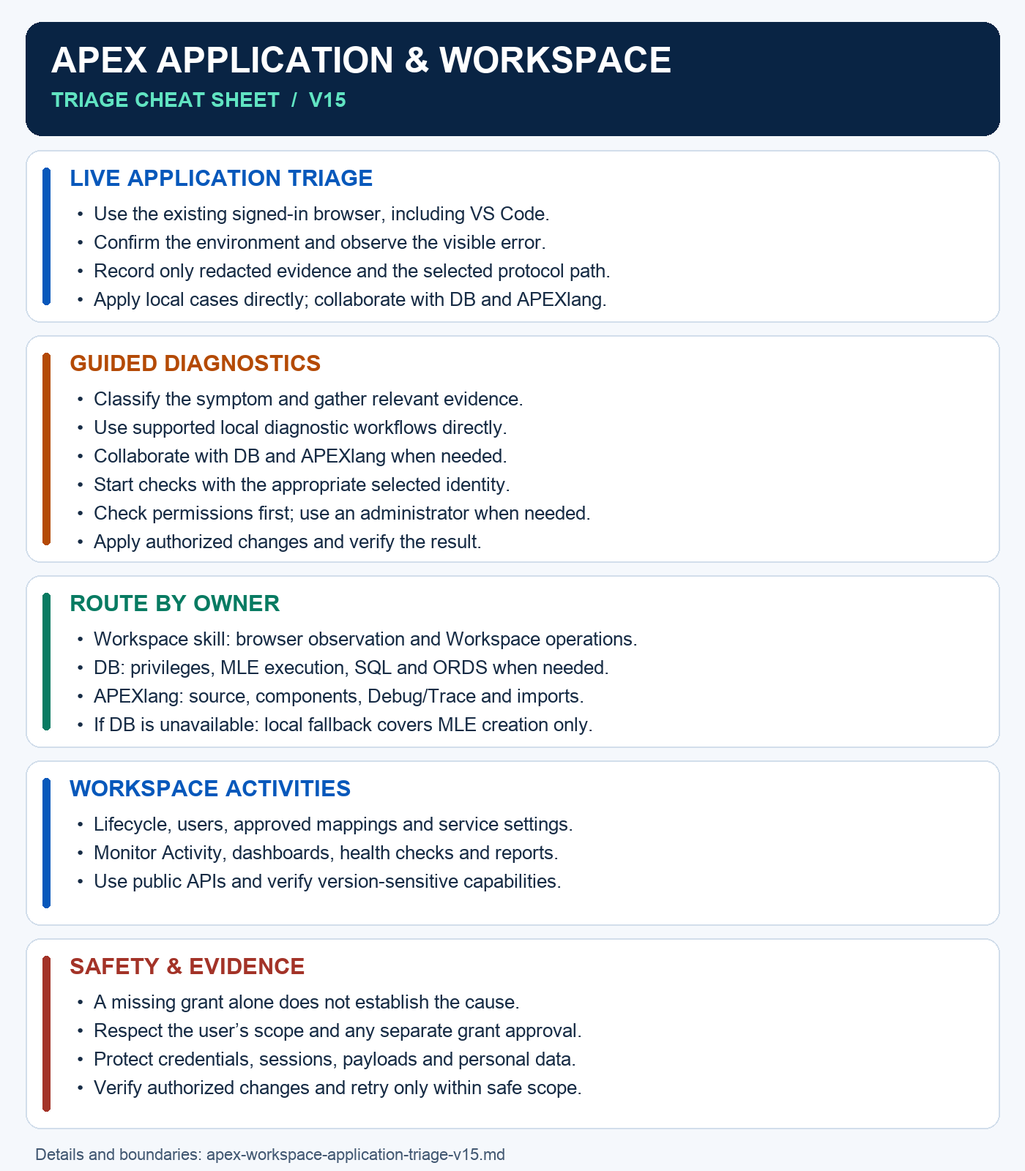
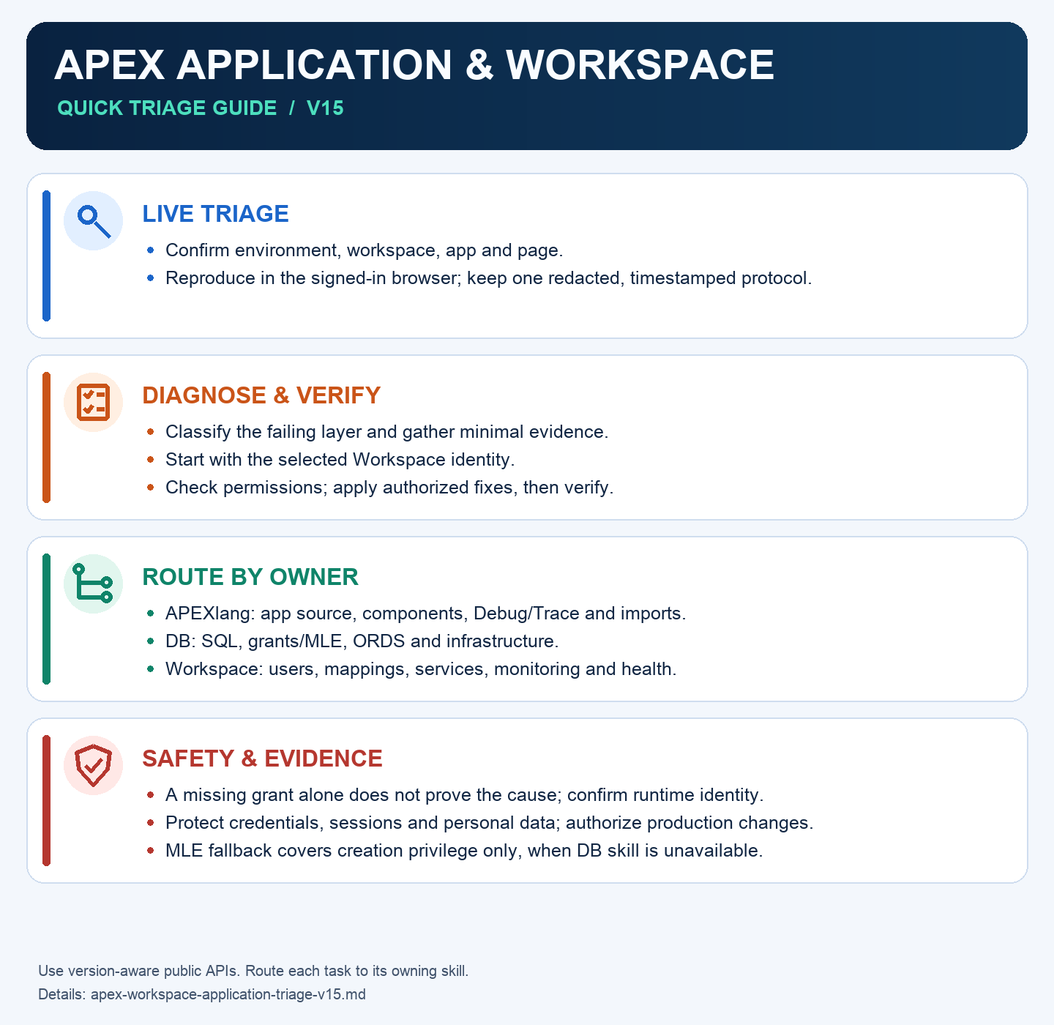
support hand offs, and clean up

Changed region(s): [[0.0, 0.0, 0.9829, 1.0], [0.9521, 0.6757, 0.9829, 0.7064]]

diff --git a/README.md b/README.md
@@ -10,12 +10,20 @@ The original APEXlang skill is the designated skill for APEX application source,
 
 **Recommendation:** Prefer the APEXlang and DB skills for their respective application and database workflows. If either skill is unavailable, continue with the capabilities included here: live browser triage and, for MLE creation `ORA-01031`, the narrow SQLcl MCP fallback. State any remaining work that those capabilities cannot cover.
 
+The APEXlang skill focuses on application development and also analyzes runtime
+errors and verifies UI behavior. The Workspace Debugging skill starts with a
+reported issue in a running app, reproduces it in the existing browser session,
+and collects redacted evidence. It involves the APEXlang skill for component or
+debug-log analysis and the DB skill for database analysis when needed. Both
+skills support browser-based runtime checks. See the [case comparison](#implemented-diagnostic-cases-and-skill-boundaries)
+for their boundaries.
+
 ## What It Provides
 
 <table>
   <tr>
     <td width="42%" valign="top">
-      <a href="docs/apex-workspace-application-triage-v15.png"><img src="docs/apex-workspace-application-triage-v15.png" alt="APEX Application &amp; Workspace Triage Cheat Sheet V15" width="420"></a>
+      <a href="docs/apex-workspace-application-triage-v16.png"><img src="docs/apex-workspace-application-triage-v16.png" alt="APEX Application &amp; Workspace Triage Cheat Sheet V16" width="420"></a>
     </td>
     <td width="58%" valign="top">
       <ul>
@@ -26,13 +34,14 @@ The original APEXlang skill is the designated skill for APEX application source,
         <li>Workspace administration UI checks and Workspace-scoped AI token-limit checks for supported APEX environments.</li>
         <li>Local protocol-file guidance for Workspace changes, administration checks, customer evidence, and live browser triage.</li>
         <li>Version-aware checks for supported APEX releases and runtime discovery of version-sensitive APIs, views, columns, and package signatures.</li>
+        <li>Reviewable, redacted support-case drafts from existing investigation evidence.</li>
       </ul>
       <p>The included workspace planner is an optional helper. It does not execute SQLcl, ORDS, generic database administration, or customer-specific workflows.</p>
     </td>
   </tr>
 </table>
 
-[Read the accessible text version](docs/apex-workspace-application-triage-v15.md), including the [MLE grant debugging case](apex/workspace-debugging/application/mle-grant-debug.md) and its [SQLcl MCP fallback](apex/workspace-debugging/application/mle-privilege-fallback.md).
+[Read the accessible text version](docs/apex-workspace-application-triage-v16.md), including the [MLE grant debugging case](apex/workspace-debugging/application/mle-grant-debug.md), its [SQLcl MCP fallback](apex/workspace-debugging/application/mle-privilege-fallback.md), and the [support-case handoff](apex/workspace-debugging/references/diagnostics/support-case-handoff.md).
 
 ## Scope Boundaries
 
@@ -96,7 +105,7 @@ Routine APEX administration is blocked for `SYS`, `SYSDBA`, `ISDBA = TRUE`, pars
 - Customer-specific reports require a user-confirmed output path before writing; prefer a location outside the repository unless the user explicitly selects another location. The Downloads rule satisfies the location requirement after the fresh `Ja` confirmation.
 - Substantive Workspace checks and state changes require a local protocol file outside the skill tree.
 - Live browser triage uses the separate redacted protocol described in `apex/workspace-debugging/references/diagnostics/live-browser-debugging.md`.
-- Protocols record scope, identity category, actions, observations, evidence references, handoffs, and final status while redacting secrets and sensitive payloads.
+- Use one redacted protocol per execution, with the local start date and time at the end of its filename, for example `apex-app107-seite301-YYYYMMDD-HHMMSS.md`. Update that file across diagnosis, handoffs, approval, repair, and verification; use a new file for a separate execution. Protocols record scope, identity category, actions, observations, evidence references, handoffs, and final status while redacting secrets and sensitive payloads.
 - Large artifacts remain local; responses use focused excerpts and compact summaries to reduce token usage.
 
 ## Supported Versions
@@ -117,6 +126,28 @@ apex/workspace-debugging/
 ```
 
 Load only the routed reference needed for the current task. Do not treat this README as a replacement for `apex/workspace-debugging/SKILL.md` or the routed references.
+
+## Support Case Handoff
+
+When an investigation stalls or the user requests an escalation summary, the
+skill can prepare a copy-ready, redacted support-case draft from the evidence
+already collected. It distinguishes verified facts, hypotheses, unknowns, and
+unperformed checks; includes reproduction steps and relevant changes; and asks
+for the specific support needed. It does not run additional checks just to fill
+the template or submit the case automatically. A separate skill-improvement
+feedback draft is available only when requested.
+
+Example prompt:
+
+```text
+I cannot make further progress with this APEX issue. Prepare a redacted support
+case from our investigation, including reproduction steps, evidence, completed
+checks and changes, and open questions. Show me the draft for review; do not
+submit it.
+```
+
+See [support-case-handoff.md](apex/workspace-debugging/references/diagnostics/support-case-handoff.md)
+for the draft structure and evidence boundaries.
 
 ## Demo Prompts
 
@@ -209,19 +240,43 @@ Schreibe ein redigiertes Protokoll nach .logs.
 <a href="docs/demo-3-dynamic-action.png"><img src="docs/demo-3-dynamic-action.png" alt="Demo 3: Dynamic Action in APEX Debug Bench" width="320"></a>
 
 ```text
-Nutze den Workspace-Debugging-Skill und beginne bei der geöffneten APEX Debug Bench App 107
-im VS-Code-Browser. Frage mich zuerst über die Auswahl nach der Umgebung: lokale
-Entwicklung, Test oder Produktion.
+Nutze den Workspace-Debugging-Skill und beginne bei der geöffneten APEX Debug Bench App 107 im VS-Code-Browser. Frage mich zuerst über die Auswahl nach der Umgebung: lokale Entwicklung, Test oder Produktion.
 
 Debugge den angezeigten Seitenfehler live. Prüfe, warum der betroffene Button
 oder die Aktualisierung des Seitenwerts nicht wie erwartet funktioniert. Nutze
 für die Analyse der Seitenkomponenten und Dynamic Action den APEXlang-Skill.
 
-Berichte den Befund und schlage die kleinste passende Behebung vor. Warte auf
-meine Freigabe, bevor du etwas änderst. Behebe danach die bestätigte Ursache,
-wiederhole den betroffenen Ablauf im APEX-Fenster und prüfe das Ergebnis.
+Berichte den Befund und schlage die kleinste passende Behebung vor. Warte auf meine Freigabe, bevor du etwas änderst. Behebe danach die bestätigte Ursache, wiederhole den betroffenen Ablauf im APEX-Fenster und prüfe das Ergebnis.
 Schreibe ein redigiertes Protokoll nach .logs.
 ```
+
+### Demo-Fehler wiederherstellen
+
+Die folgenden Schritte setzen die drei Fälle für eine erneute Demo zurück. Sie
+gelten für eine isolierte lokale Entwicklungsumgebung und ändern die installierte
+App 107 beziehungsweise die Rechte ihres ausführenden Schemas. Vor dem Zurücksetzen
+Umgebung, Schema und aktuellen Zustand prüfen; die Änderungen bewusst freigeben.
+
+1. **MLE-Rechte (Seite 301):** Die ausführende Identität und ihre wirksamen
+   MLE-Rechte mit dem DB-Skill über SQLcl-MCP prüfen. Für den vorbereiteten Fall
+   die oben unter Demo 1 aufgeführten direkten Grants `EXECUTE DYNAMIC MLE` und
+   `EXECUTE ON JAVASCRIPT` für das betreffende Schema durch eine entsprechend
+   berechtigte administrative Verbindung entziehen; die dort genannten
+   Voraussetzungen beachten. Über Rollen oder andere Wege erhaltene Rechte können
+   den Fehler weiterhin verhindern. Anschließend Seite 301 erneut ausführen und
+   prüfen, ob der erwartete Rechtefehler erscheint.
+2. **Fehlende Tabelle (Seite 302):** Im Page Designer der installierten App die
+   Tabellenreferenz in der betroffenen Diagrammserien-Abfrage von `GARMIN` auf
+   `GARMIN_MISSING_TABLE` ändern und speichern. Die tatsächliche Tabelle wird
+   dabei nicht umbenannt. Die Seite neu laden und den Fehler prüfen.
+3. **Dynamic Action (Seite 303):** In der Dynamic Action „Refresh Garmin Report“
+   die Aktion „Absichtlicher Dynamic-Action-Benchmark-Fehler“ wieder aktivieren:
+   die ausgeschlossene Build Option „Commented Out“ entfernen und speichern.
+   Seite 303 neu laden und „Activity Type Report“ ändern. Der Report sollte sich
+   aktualisieren und anschließend der absichtliche Fehler `ORA-20003` erscheinen.
+
+Die zurückgesetzten Fehler bleiben für die Demo aktiv, bis sie erneut behoben
+werden. Diese Schritte sind eine Anleitung und führen selbst keine Änderungen aus.
 
 ### Debugging Demo 4: APEX Benchmark Live Run
 Open http://127.0.0.1:28443 in your browser. This non-production playground uses ChangeMe_VSCode_12345 for all logins.
@@ -231,3 +286,38 @@ Ich bin nun auf der page 3 für den automatischen Benchmark Test. kannst du jetz
 
 # IMPORTANT TO READ
 I accept no liability for the use of this skill; it supports only officially supported Oracle APEX versions and invokes or uses only original, documented Oracle APEX functionality.
+
+## Implemented Diagnostic Cases and Skill Boundaries
+
+The following describes the workflows and diagnostic patterns implemented in this
+repository. A **triage** entry means the Workspace skill can collect and classify
+the permitted evidence independently; it does not guarantee that the root cause
+can be confirmed or fixed without another skill. Browser observations depend on
+the available tool's actual console and network capabilities. The patterns are
+hypotheses and routing guidance, not automated fixes or proof that every case has
+been tested end to end.
+
+| Case | What the Workspace skill can do without APEXlang or the DB skill | Can APEXlang also handle it? |
+| --- | --- | --- |
+| Page does not load, redirects, renders incorrectly, or a Builder page cannot be opened | Reproduce or observe in the existing signed-in browser; record the error and compare the available app, page, environment and working-copy context. Component, template and import investigation requires APEXlang. | **Partly.** APEXlang has runtime UI verification and component/import diagnostics; its UI workflow focuses on defects remaining after successful validate/import. |
+| Button, page item, Dynamic Action, report/grid refresh or AJAX fails | Observe the smallest safe interaction and capture visible results and available redacted request metadata. Item submission, action definitions, conditions and application changes require APEXlang. | **Yes, for application diagnosis and repair.** APEXlang covers Dynamic Actions and correlation of runtime errors with APEX debug logs. |
+| `JSON.WRITER.CLOSE_OBJECT`, empty chart or chart SQL error | Observe the chart and the visible/request symptom. Do not infer a missing table or the root cause from the message alone. The installed series and APEX Debug/Trace belong to APEXlang; database object or privilege checks belong to DB. | **Yes, for chart components and APEX debug analysis.** Database causes may also need DB. |
+| Browser JavaScript exception, blocked asset, CORS or mixed-content error | Capture the concise console message and redacted request metadata if the browser tool exposes them; classify the failing layer. Application code/assets, ORDS and network causes need the relevant owner. | **Partly.** APEXlang can investigate application code and has a separate runtime UI workflow; infrastructure remains outside its application scope. |
+| REST or external-call failure | Record the visible result and available redacted endpoint shape, status and timing. Application call configuration belongs to APEXlang; ORDS, ACL and infrastructure work belongs to DB or the responsible owner. | **Partly.** APEXlang can investigate the application call and correlated debug evidence; it does not replace infrastructure diagnosis. |
+| Slow page or application error | Use the appropriate Workspace dashboard or report to locate the affected page/time window, and collect available browser timing or visible error evidence. Those observations do not establish a SQL or component root cause. Live Workspace checks require the documented identity and access gates. | **Partly.** APEXlang handles application and APEX debug analysis; Workspace monitoring and database performance work have separate owners. |
+| Login, role or access differs between users | Record the visible symptom and user type; use the Workspace account and monitoring workflows for Workspace users/groups within their documented scope. Application authorization, database access and SSO belong to their respective owners. | **Partly.** APEXlang can investigate application authorization and components; it does not replace Workspace user administration or identity-provider investigation. |
+| `ORA-01031` creating an MLE module or environment | Independently perform browser triage. If the DB skill is unavailable, the narrowly scoped SQLcl MCP fallback can check relevant creation privileges and, only when the missing right, recipient and target are verified and repair is authorized, apply the minimal grant and verify it. The fallback requires SQLcl MCP and database access; it is not an offline workflow. | **Partly.** APEXlang can investigate import/application and debug evidence; privilege diagnosis and grants belong to DB, or to this specific creation fallback when DB is unavailable. |
+| `ORA-01031` executing MLE or dynamic JavaScript | Observe the failure and identify the visible operation. Effective execution privileges and grants require DB; the creation fallback does **not** cover runtime or dynamic MLE. | **Partly.** APEXlang can identify the application action and debug evidence; execution privilege work belongs to DB. |
+| `ORA-00942`, object access or definer-rights failure | Capture the visible error and context. Determining object resolution, effective identity, synonyms and access requires DB; source and debug analysis requires APEXlang. | **Partly.** APEXlang can identify the component and SQL from debug evidence; database object and privilege checks belong to DB. |
+| Checksum/session-state protection, incomplete Supporting Objects, export/installed-app mismatch or version incompatibility | Capture visible symptoms and target context and route the case. Do not disable security, retry installation, or infer a source-level defect from browser evidence alone. | **Yes, for the corresponding application, import and validation analysis.** Database and infrastructure causes may need DB. |
+
+**Live debugging overlap:** This Workspace skill provides a general live-browser
+triage workflow for an existing authenticated session, including the VS Code
+embedded browser fallback, evidence redaction and handoff. The inspected
+APEXlang skill also documents live runtime UI verification: opening a page,
+capturing a snapshot, interacting with controls and retesting after a fix. It
+also documents `APEX_DEBUG_MESSAGES` analysis. Therefore live browser work is
+not exclusive to this skill; the workflows have different entry points and
+overlap for runtime UI behavior. See [live browser debugging](apex/workspace-debugging/references/diagnostics/live-browser-debugging.md),
+the [triage matrix](apex/workspace-debugging/application/triage-matrix.md) and
+the [diagnostic patterns](apex/workspace-debugging/application/diagnostic-patterns.md).

diff --git a/docs/apex-workspace-application-triage-v15.md b/docs/apex-workspace-application-triage-v15.md
@@ -1,50 +1,29 @@
-# APEX Application & Workspace Triage — Cheat Sheet V15
+# 🧭 APEX Application & Workspace Triage — V15
 
 Visual one-pager: [PNG](apex-workspace-application-triage-v15.png). Operational details: [Application triage](../apex/workspace-debugging/application/SKILL.md), [MLE grant debugging](../apex/workspace-debugging/application/mle-grant-debug.md), and the [SQLcl MCP fallback](../apex/workspace-debugging/application/mle-privilege-fallback.md).
 
-**Live application debugging and Workspace administration.** Application source and APEX Debug/Trace belong to the original APEXlang skill; general database privileges, grants, SQL, and ORDS belong to the DB skill. A narrow MLE creation privilege fallback is included when the DB skill is unavailable.
+## 🔎 Live triage
 
-**Recommendation:** Prefer APEXlang and the DB skill for their respective domains. If either is unavailable, continue with the local browser-triage and MLE-fallback capabilities where applicable, and state what remains outside their scope.
+- Confirm environment, workspace, application, and page.
+- Reproduce in the signed-in browser and record one redacted, timestamped protocol.
 
-## Application and Live Debugging
+## 🧪 Diagnose and verify
 
-- **Live browser:** use the existing signed-in APEX session, including a browser embedded in VS Code; observe the visible UI, available console, and redacted request metadata.
-- **Local cases first:** apply the matching documented Workspace or browser diagnosis directly. Continue permitted checks and verification while collaborating with APEXlang or DB on the specific work they own.
-- **Application symptoms:** classify page, session-state, Dynamic Action, chart, SQL/privilege, MLE, checksum and import issues; consult [diagnostic patterns](../apex/workspace-debugging/application/diagnostic-patterns.md) and route deeper work to APEXlang or DB.
-- **Builder/runtime mismatch:** compare the same workspace, application, page and working-copy context; route page, region, and template-reference checks and any justified reimport to APEXlang.
-- **Guided diagnostics:** identify the failing layer, verify the target and identity, and collect the smallest useful evidence before routing to the owning skill.
-- **Privilege diagnosis:** identify the operation and execution context, then collaborate with DB on the relevant checks and authorized repair.
-- **Application diagnosis identity:** begin database checks with the selected Workspace schema user; use an administrative connection later for necessary privilege checks or authorized repair.
-- **Authorized repair:** describe the proposed change, follow the user’s authorization, then verify the result.
-- **Guided choices:** when not already known, use the available question picker for environment (`Lokale Entwicklung`, `Test`, `Produktion`) and for actual discovered database connections. Reuse prior answers and honor the connector's active-connection switch rule. If the exact grant is known and not prohibited, one picker can combine connection selection with explicit approval of that grant.
+- Classify the failing layer and gather the minimum useful evidence.
+- Start with the selected Workspace identity.
+- Check permissions; apply authorized fixes and verify the result.
 
-## Workspace Activities
+## 🔀 Route by owner
 
-- **Administration:** lifecycle, APEX Workspace users/groups, approved schema mappings, resources, Manage Service settings, and service requests.
-- **Monitoring:** dashboards, Monitor Activity, login attempts, sessions, application-error presence, weighted page-performance reports, activity trends, and Workspace AI-service utilization.
-- **Health and tools:** Workspace health checks, the local planning helper, redacted protocol guidance, and version-aware checks of public APIs and views.
+- **APEXlang:** application source, components, Debug/Trace, and imports.
+- **DB:** SQL, grants and MLE, ORDS, and infrastructure.
+- **Workspace:** users, mappings, services, monitoring, and health.
+- **MLE fallback:** creation privilege only, when the DB skill is unavailable.
 
-## Route by Owner
+## 🛡 Safety
 
-| Original APEXlang skill | DB skill | Debug Skill |
-| --- | --- | --- |
-| Application source/components, APEXlang definitions, APEX Debug/Trace, imports, validation, locks, working copies, and application changes | Preferred owner for database accounts/schemas/privileges, MLE checks and grants, SQL, database performance, ORDS, network ACLs, and infrastructure | Live browser observation, symptom routing, Workspace accounts, settings, dashboards, reports and health; limited MLE creation privilege fallback if DB skill unavailable |
+- A missing grant alone does not prove the cause; confirm runtime identity.
+- Protect credentials, sessions, payloads, and personal data.
+- Production changes require explicit authorization.
 
-Start with the local case and bring in DB or APEXlang for the specific work their domains own; continue independent local checks alongside them. When the DB skill cannot be found, the local fallback checks MLE creation privileges and can apply the verified minimal grant if authorized; it does not cover general SQL, `ANY` grants, dynamic MLE execution, or database administration. An explicit request for the relevant application or DB diagnosis or repair authorizes its handoff; the chosen connection and its tool rules still apply. A visible identified MLE creation or execution error does not require APEXlang or Debug/Trace before privilege checks. An absent grant alone does not establish the cause or the runtime identity.
-
-## Safety and Evidence
-
-- **Database access:** verify the target environment and identity before database work.
-- **Production changes:** require the user’s authorization for the specific change.
-
-- **Workspace API identity:** use a confirmed APEX administrator. Never use `SYS` or `SYSDBA`; `SYSTEM` is a narrowly scoped APEX-admin exception requiring a fresh exact uppercase `YES`. DB-owned privilege work follows the DB skill's rules; the MLE fallback may use a user-selected `SYSTEM` connection without `SYSDBA` after verifying its PDB.
-- **Workspace administration UI:** for test or production, require the separate fresh exact uppercase `YES` specified by the Workspace administration workflow before attaching.
-- **Live UI:** confirm the environment and read-only scope before test or production interaction. A structured environment choice that states the scope can provide this authorization. Use existing explicit authorization for subsequent actions; do not treat a read-only choice as permission to change data.
-- **Privacy:** do not expose passwords, cookies, tokens, session IDs, request/response bodies, item values, or unredacted HAR files. SQLcl MCP may audit executed statements.
-- **Evidence:** reuse the user's explicitly selected protocol path. Otherwise keep customer evidence outside the repository and ask for a path only when one is required.
-
-## APEX 26.2 Baseline
-
-As of **November 2, 2026**, Oracle lists APEX **26.2, 26.1, 24.2, and 24.1** as supported. APEX 23.2 support ended in May 2026. See [Oracle's APEX support table](https://www.oracle.com/apex/).
-
-APEX 26.2 file-level APEXlang import and application lock/working-copy APIs remain APEXlang workflows. Workspace-Level Network Access Control uses `WEBSERVICE_USE_SCHEMA_ACL`; instance configuration and database ACL work route to DB. See [APEX 26.2 New Features](https://docs.oracle.com/en/database/oracle/apex/26.2/htmrn/new-features.html).
+For version-specific API and view support, check the active APEX release.

diff --git a/apex/workspace-debugging/SKILL.md b/apex/workspace-debugging/SKILL.md
@@ -1,6 +1,6 @@
 ---
 name: workspace-debugging
-description: Oracle APEX Workspace administration, monitoring, and live browser triage. Diagnose MLE ORA-01031 with the DB skill or a narrow SQLcl MCP fallback; route application source and APEX Debug/Trace to APEXlang.
+description: Oracle APEX Workspace administration, monitoring, live browser triage, and redacted support-case drafts. Diagnose MLE ORA-01031 with the DB skill or a narrow SQLcl MCP fallback; route application source and APEX Debug/Trace to APEXlang.
 ---
 
 # Oracle APEX Workspace & Debugging
@@ -20,6 +20,7 @@ Prefer the original APEXlang and DB skills for their respective application and 
 - Workspace dashboards, Monitor Activity, active sessions, and browser-based Workspace administration checks: start with `references/diagnostics/workspace-diagnostics.md` or `references/monitoring/workspace-monitor-activity.md`.
 - Broad APEX Workspace status: use `references/monitoring/environment-healthcheck.md`.
 - Live reproduction and browser-level investigation of an APEX application: use `references/diagnostics/live-browser-debugging.md`.
+- A user-requested support case or escalation summary from an existing investigation: use `references/diagnostics/support-case-handoff.md`. Prepare a redacted draft for review; do not submit it automatically.
 - Application symptom classification and bounded handoffs to APEXlang or DB: use `application/SKILL.md`; it reuses the existing Workspace monitoring and live-browser references. For a visible MLE-related `ORA-01031`, including runtime execution, start with `application/mle-grant-debug.md` and the DB skill; the local SQLcl MCP fallback remains limited to MLE creation if the DB skill is unavailable.
 - Workspace-level activity trends and Workspace administration reports: use the matching reference in `references/monitoring/`.
 - Use the original APEXlang skill for application source/exports, component definitions and code-level behavior, `APEX_DEBUG_MESSAGES`, APEX Debug/Trace configuration and interpretation, import, validation, and application locking/working-copy workflows. APEX 26.2 file-level import and the `APEX_APPLICATION_ADMIN` lock/working-copy APIs are application tasks for APEXlang, even when used within a Workspace.
@@ -84,6 +85,7 @@ For live application browser triage, follow `references/diagnostics/live-browser
 - Static review of Workspace reports or screenshots does not need database access. State that boundary before starting.
 - For customer-specific Workspace checks, ask once whether the relevant Monitor Activity, dashboard, Manage Service, active-session, or Workspace administration UI evidence is available. Route source/component analysis and APEX Debug/Trace evidence to APEXlang; route database/ORDS evidence to the DB skill. Live browser triage follows its dedicated reference.
 - Report in chat by default unless the user requests a file or the selected workflow requires a protocol. Reuse an explicitly selected output location without asking again. Before writing a customer-specific report without a selected path, obtain the output directory or exact path. Downloads is available after a fresh `Ja` confirmation; this confirms only the output location.
+- For each distinct execution, use one new redacted Markdown protocol, shared across its diagnosis, handoffs, approval, repair, and verification. Continue updating that same file when the execution resumes in a later turn; start a new file for a separate execution even for the same app or error. In a selected directory, name it `<short-scope>-YYYYMMDD-HHMMSS.md` using local start time; record the timezone and avoid collisions without overwriting. Honor an explicitly requested exact filename. Do not merge historical executions or split a single execution across multiple protocol files.
 - Before substantive live Workspace administration, state changes, or Workspace report review, read `references/diagnostics/workspace-protocol.md` and create/update the local protocol outside this skill tree. Confirm its output directory or exact file path first.
 - Keep customer evidence, exports, reports, logs, screenshots, and protocols outside the skill tree and repository by default; honor an explicit user-selected location. Use redacted excerpts only; do not expose passwords, tokens, cookies, authorization headers, request bodies, item values, or unnecessary personal data.
 - Never create database tables, triggers, packages, or other objects for Workspace protocols, logging, or instrumentation.

diff --git a/apex/workspace-debugging/references/diagnostics/support-case-handoff.md b/apex/workspace-debugging/references/diagnostics/support-case-handoff.md
@@ -1,0 +1,57 @@
+# Support Case Handoff
+
+Use this workflow when the user asks for a support case, escalation summary, or
+handoff after an APEX investigation, including when the investigation cannot
+proceed. It prepares a reviewable draft from the current investigation; it does
+not create, submit, or transmit a case.
+
+## Prepare the draft
+
+Use existing conversation evidence, the execution's redacted protocol, and
+authorized companion-skill findings. Do not redo diagnosis or make additional
+live queries solely to fill the template; mark unavailable information as
+unknown. Keep the verified app, environment, operation, and time window only as
+needed for support. Retain exact error codes and minimal sanitized excerpts.
+
+Present a copy-ready draft with:
+
+1. **Subject and impact:** the affected function, expected and actual behavior,
+   impact and scope, including frequency if known.
+2. **Environment:** development/test/production, APEX and database versions,
+   application/page and relevant execution context only if established.
+3. **Reproduction:** minimal steps, preconditions and result; say when the
+   reported failure was not reproduced or a step is unknown.
+4. **Evidence:** concise errors, timestamps with timezone, redacted debug
+   references or available attachment descriptions, and their origin.
+5. **Investigation and changes:** checks, outcomes, authorized changes and
+   verification; identify who owns any unfinished APEXlang or DB analysis.
+6. **Open questions and request to support:** what remains unknown, the
+   specific help requested, and any information the user must supply.
+
+Separate confirmed facts from hypotheses and unknowns. Do not infer a root
+cause, environment, version, impact, or successful fix from incomplete evidence.
+Note when console, network, database or debug evidence was not examined.
+
+Redact credentials, tokens, cookies, authorization headers, session IDs, request
+and response bodies, item values, personal data, secret-bearing URLs and
+unnecessary hostnames, object names and application data. A debug ID, application
+identifier, object name or sanitized log excerpt may be included only when
+needed for the support case; flag it for user review. Do not attach raw logs or
+screenshots automatically.
+
+Show the draft to the user for review and editing. Report in chat by default;
+write a local file only if the user requests one and an output location is
+selected under the skill's existing output rules. When a file is requested,
+keep the existing per-execution investigation protocol intact and identify the
+support draft as a separate deliverable, not a replacement protocol.
+
+If the user separately requests feedback about the skill, provide a distinct,
+short local draft describing the observed obstacle, evidence, proposed
+improvement and any measured metrics. Label estimates and unknown metrics; do
+not infer token usage. Do not include customer content unnecessarily. The
+support case and skill feedback serve different audiences and must not be
+combined automatically.
+
+Creating or transmitting a support case, sending feedback, and uploading
+attachments require a separate, explicit user instruction identifying the
+destination and approved content. This workflow itself never submits or sends.

diff --git a/apex/workspace-debugging/references/diagnostics/live-browser-debugging.md b/apex/workspace-debugging/references/diagnostics/live-browser-debugging.md
@@ -43,7 +43,7 @@ For each relevant request, retain only method, redacted path shape, status, timi
 
 ## Evidence And Protocol
 
-Before substantive browser triage, reuse the user-confirmed protocol directory or exact file path. Ask only if no location has been supplied. Downloads is an available location after a fresh `Ja` confirmation under the output rules in `apex/workspace-debugging/SKILL.md`. Create or update a Markdown protocol before reproducing the issue; use a location outside this repository by default, or the user's explicitly selected location. Use a timestamped name such as `apex-live-browser-protocol-YYYYMMDD-HHMMSS.md`. Record the environment, application/page scope, symptom, authorization, reproduction steps, browser-tool capabilities, redacted observations, evidence path, and any APEXlang or DB handoff. Keep raw customer screenshots, HAR files, console dumps, and logs outside the skill tree.
+Before substantive browser triage, reuse the user-confirmed protocol directory or exact file path. Ask only if no location has been supplied. Downloads is an available location after a fresh `Ja` confirmation under the output rules in `apex/workspace-debugging/SKILL.md`. Create one new Markdown protocol per execution before reproducing the issue; update the same file through approval, handoffs, repair, and verification, including across turns. Use a location outside this repository by default, or the user's explicitly selected location. In a selected directory use a timestamped name such as `apex-app107-seite301-YYYYMMDD-HHMMSS.md`, using local start time and recording its timezone. Never append a new execution to an older file; avoid collisions and honor an explicitly requested exact filename. Record the environment, application/page scope, symptom, authorization, reproduction steps, browser-tool capabilities, redacted observations, evidence path, and any APEXlang or DB handoff. Keep raw customer screenshots, HAR files, console dumps, and logs outside the skill tree.
 
 Capture only the smallest useful facts: application ID or alias, page ID or title, visible error text, local timestamp and timezone, action name, request type/path shape, method, status, timing, response-size class, and whether the symptom reproduced. Do not copy bulk DOM/network output into chat. Redact HAR data before use: remove cookies, authorization headers, session IDs, request bodies, secret-bearing URL values, and unnecessary personal data.
 

diff --git a/apex/workspace-debugging/references/diagnostics/workspace-protocol.md b/apex/workspace-debugging/references/diagnostics/workspace-protocol.md
@@ -4,11 +4,11 @@ Use this reference before substantive live Workspace administration, Workspace r
 
 ## Location
 
-Create or update a local Markdown protocol outside the skill tree before the workflow starts. Do not create database tables or other database objects for protocol storage.
+Create one local Markdown protocol per execution outside the skill tree before the workflow starts. Update that file through the entire execution, including later turns and handoffs; do not append a separate execution to it. Do not create database tables or other database objects for protocol storage.
 
-Do not write protocol files into `workspace/`, `references/`, `tools/`, tests, committed documentation, or another repository path unless the user explicitly asks for a sanitized generic skill artifact.
+Do not write protocol files into `workspace/`, `references/`, `tools/`, tests, or committed documentation. A user-selected repository output directory such as `.logs/` is allowed for redacted protocols.
 
-Ask for a user-confirmed output directory or exact Markdown path. The local operating-system Downloads folder is a valid location. If no path is provided, offer Downloads and continue only after a fresh `Ja` reply; this confirms the file location only. Use a timestamped filename such as `apex-workspace-protocol-YYYYMMDD-HHMMSS.md`.
+Reuse the user-selected output directory or exact Markdown path, or ask when none was provided. The local operating-system Downloads folder is a valid location. If no path is provided, offer Downloads and continue only after a fresh `Ja` reply; this confirms the file location only. In a selected directory use a timestamped filename such as `apex-workspace-protocol-YYYYMMDD-HHMMSS.md` with local start time and timezone in the content; avoid overwriting on collisions. Honor an explicitly requested exact filename.
 
 ## Required Content
 

diff --git a/docs/apex-workspace-application-triage-v16.md b/docs/apex-workspace-application-triage-v16.md
@@ -1,0 +1,33 @@
+# APEX Application & Workspace Triage — V16
+
+Visual one-pager: [PNG](apex-workspace-application-triage-v16.png) ([SVG](apex-workspace-application-triage-v16.svg)). Operational details: [Application triage](../apex/workspace-debugging/application/SKILL.md), [MLE grant debugging](../apex/workspace-debugging/application/mle-grant-debug.md), [SQLcl MCP fallback](../apex/workspace-debugging/application/mle-privilege-fallback.md), and [support case handoff](../apex/workspace-debugging/references/diagnostics/support-case-handoff.md).
+
+## Live triage
+
+- Confirm environment, workspace, application, and page when known.
+- Reproduce in the signed-in browser and record one redacted, timestamped protocol.
+
+## Diagnose and verify
+
+- Classify the failing layer and gather the minimum useful evidence.
+- For MLE privileges, begin with the selected relevant Workspace schema identity.
+- Apply authorized fixes and verify the result within the responsible skill's scope.
+
+## Route by owner
+
+- **APEXlang skill:** application source, components, Debug/Trace, and imports.
+- **DB skill:** SQL, grants and MLE, ORDS, and infrastructure.
+- **Workspace skill:** users, mappings, services, monitoring, and health.
+- **MLE fallback:** creation privilege only, when the DB skill is unavailable.
+
+## Safety
+
+- A missing grant alone does not prove the cause; confirm the relevant identity and context.
+- Protect credentials, session identifiers, payloads, and personal data.
+- Follow the applicable environment, identity, and authorization gates for live work and changes.
+
+For version-specific API and view support, check the active APEX release.
+
+## Support case handoff
+
+On request, prepare a redacted support-case draft from existing evidence for user review; do not send it automatically.
